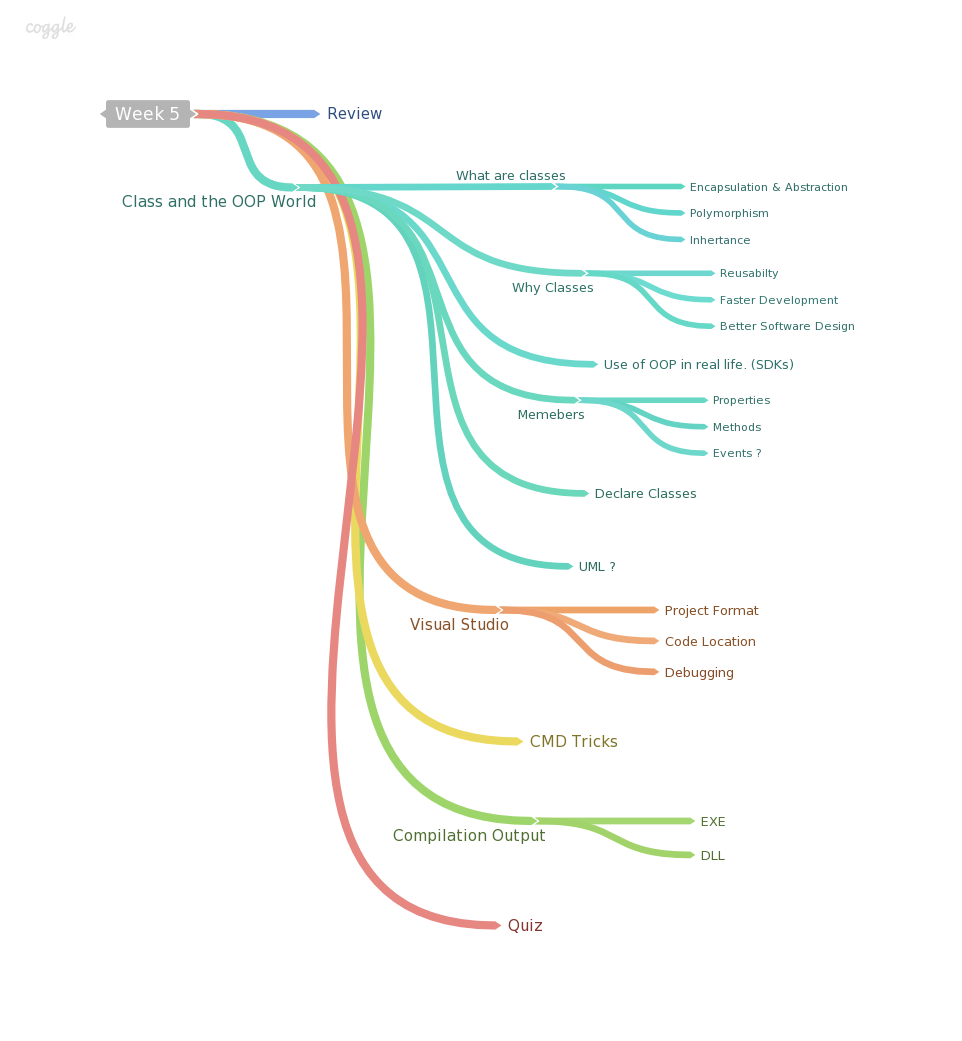
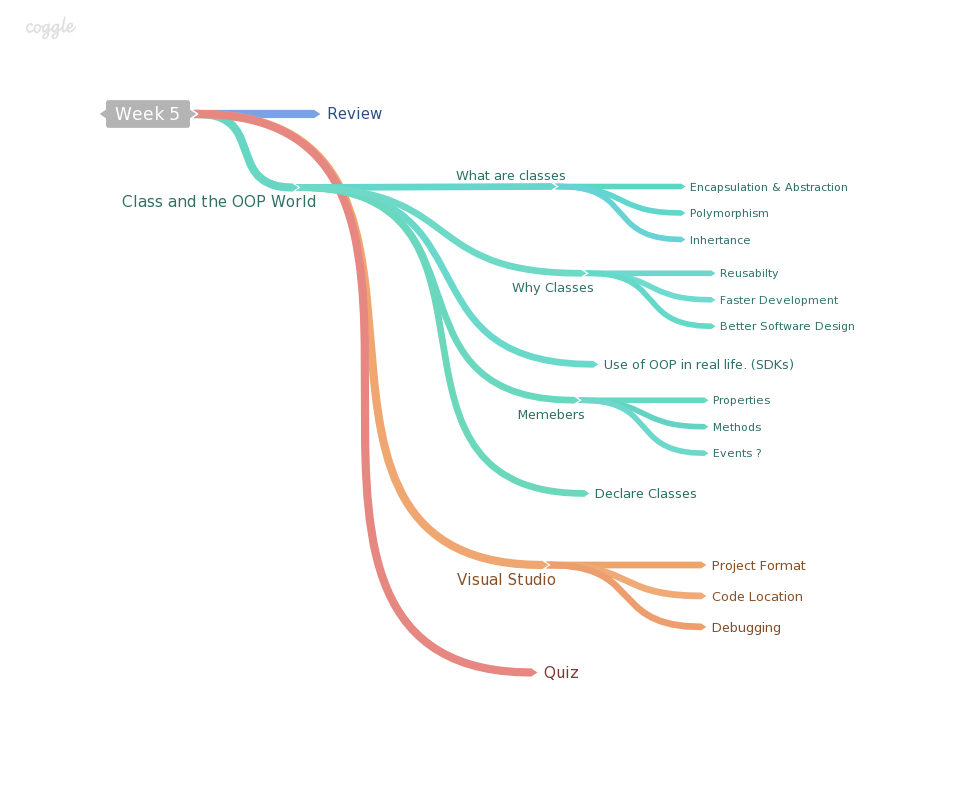
update week5

diff --git a/week5/README.md b/week5/README.md
@@ -1,4 +1,4 @@
-#Week 4
+#Week 5
 
 #### [Please Submit Feedback][2]
 
@@ -8,17 +8,12 @@
 - Why use classes
 - Declare Classes
 - Class members (fields , properties , methods)
-- UML ?
 - Use of oop in real life (SDKs ?)
 
 ##Visual Studio
 - Project Format
 - Code Location
 - Debugging
-
-##CMD Tricks
-
-##Compilation Outputs
 
 ##Quiz
 
